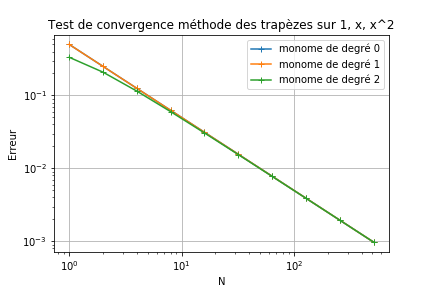
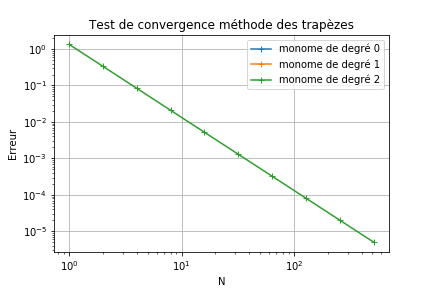
correction q2

diff --git a/src/tests.py b/src/tests.py
@@ -41,7 +41,7 @@ E6 = np.zeros_like(N,dtype=np.float)
 Q7 = np.zeros_like(N,dtype=np.float)
 E7 = np.zeros_like(N,dtype=np.float)
  #Pour le monome de degré 0,1,2: f(x) = 1,x,x^2
-for k in np.arange(7):
+for k in np.arange(3):
     print("test pour le degré {}".format(k))
     f.degre = k # degré des monomes à tester
     I = f.primitive_monome(b)-f.primitive_monome(a) # intégrale exacte
@@ -49,7 +49,7 @@ for k in np.arange(7):
                                                     # une primitive
     # Boucle sur les découpages
     for i in np.arange(k_max):
-        Q[i] = q.met_GL(f.monome,a,b,N[i],3)
+        Q[i] = q.met_trapezes(f.monome,a,b,N[i])
         E[i] = abs(I-Q[i])
         print ("{:5d} {:14.8g} {:14.8g} {:14.8g}".format(N[i],I,Q[i],E[i]))
     # On peut tracer les courbes d'erreur en fonction de N, en échelles
@@ -58,13 +58,13 @@ for k in np.arange(7):
 
 # Les trois courbes (pour 1, x, x^2) ont été tracées, on ajoute titre,
 # légende...
-plt.title("Test de convergence méthode de Gauss-Legendre à 3 points")
+plt.title("Test de convergence méthode des trapèzes")
 plt.legend()
 plt.xlabel("N")
 plt.ylabel("Erreur")
 plt.grid()
 # Utilisez une des deux lignes ci-dessous pour voir à l'écran ou enregistrer le graphique
-plt.savefig("../img/test_GL3.png")
+plt.savefig("../img/test_2.png")
 plt.show() 
 
 

diff --git a/README.md b/README.md
@@ -152,7 +152,22 @@ et commet une erreur équivalente à $h^2$ (ou encore
 $N^{-2}$). Reproduire ci-dessous les tableaux d'erreurs qui démontrent
 ce résultat, et inclure le graphe de convergence des approximations.
 
+n   | erreur x^0 | erreur x^1 | erreur x^2
+--- | ---------- | ---------- | ----------
+1   |          0 |          0 | 1.3333333
+2   |          0 |          0 | 0.33333333
+4   |          0 |          0 | 0.083333333
+8   |          0 |          0 | 0.020833333
+16  |          0 |          0 | 0.0052083333
+32  |          0 |          0 | 0.0013020833
+64  |          0 |          0 | 0.00032552083
+128 |          0 |          0 | 8.1380208e-05
+256 |          0 |          0 | 2.0345052e-05
+512 |          0 |          0 | 5.086263e-06
+
 ![Illustration de l'ordre de la méthode des trapèzes](./img/test_2.png)
+
+On voit bien que la pente de l'erreur est de 2. La méthode des trapèzes est donc d'ordre 2.
 
 3. On veut tester nos formules pour d'autres fonctions que les
 polynômes. Pour cela, on ajoute les fonctions souhaitées dans le fichier
